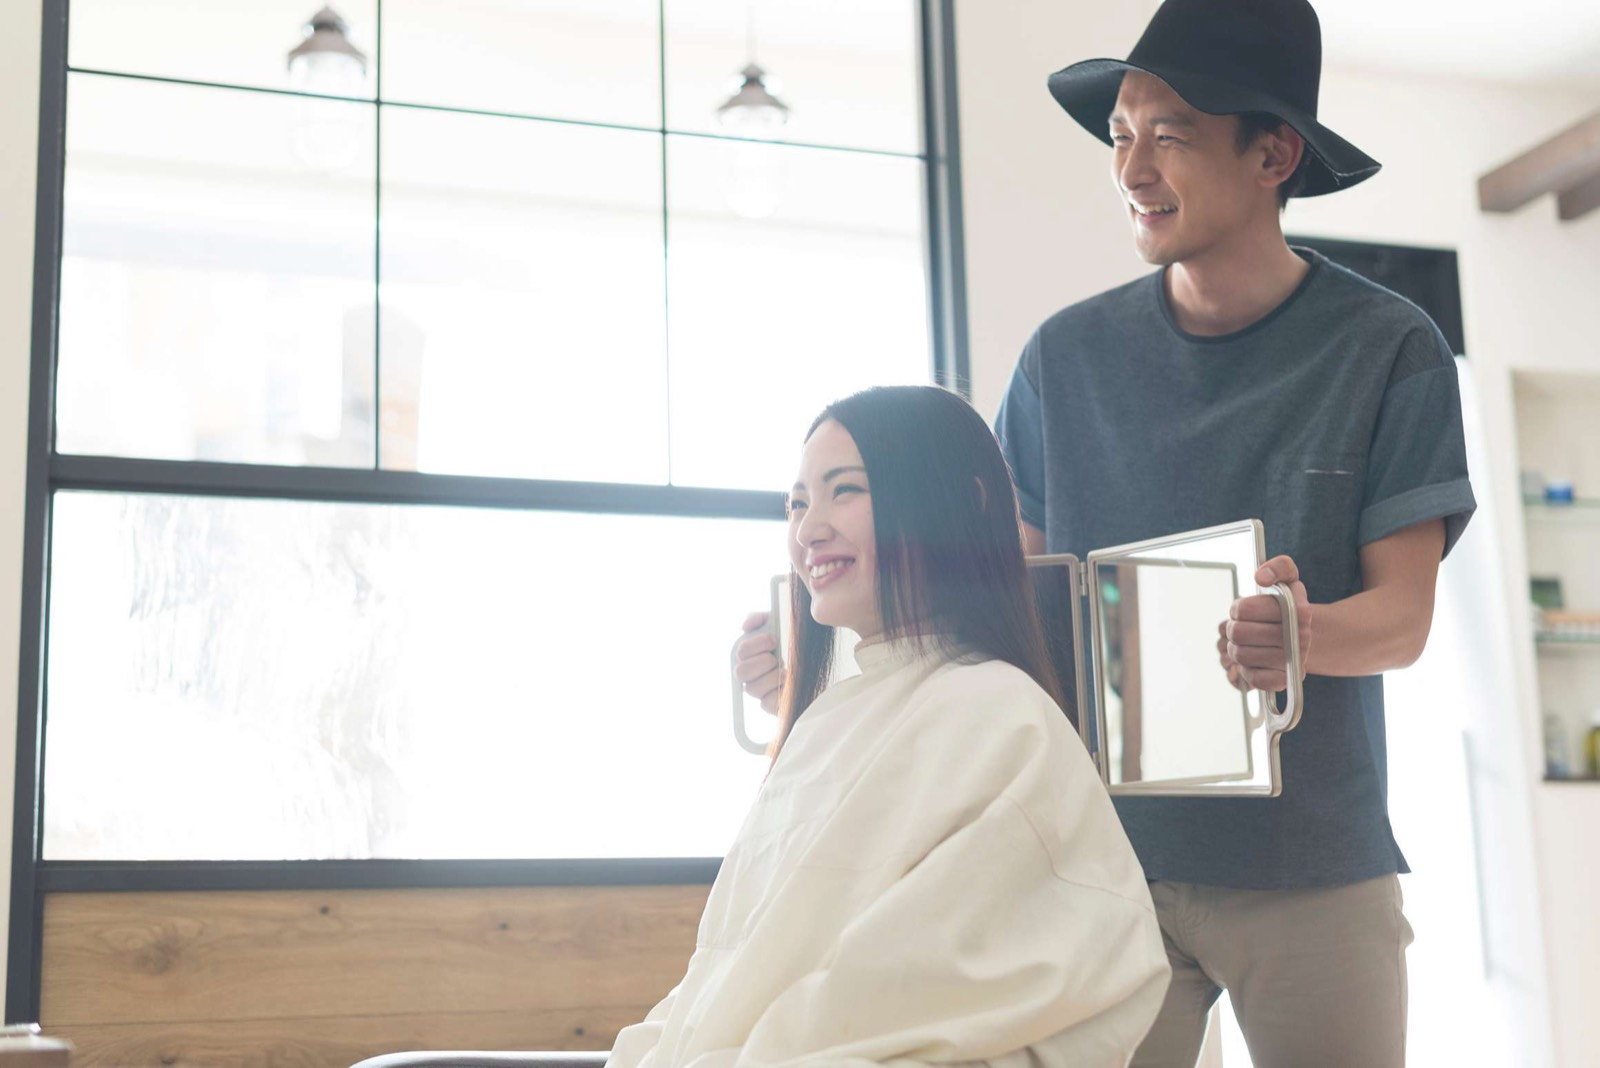
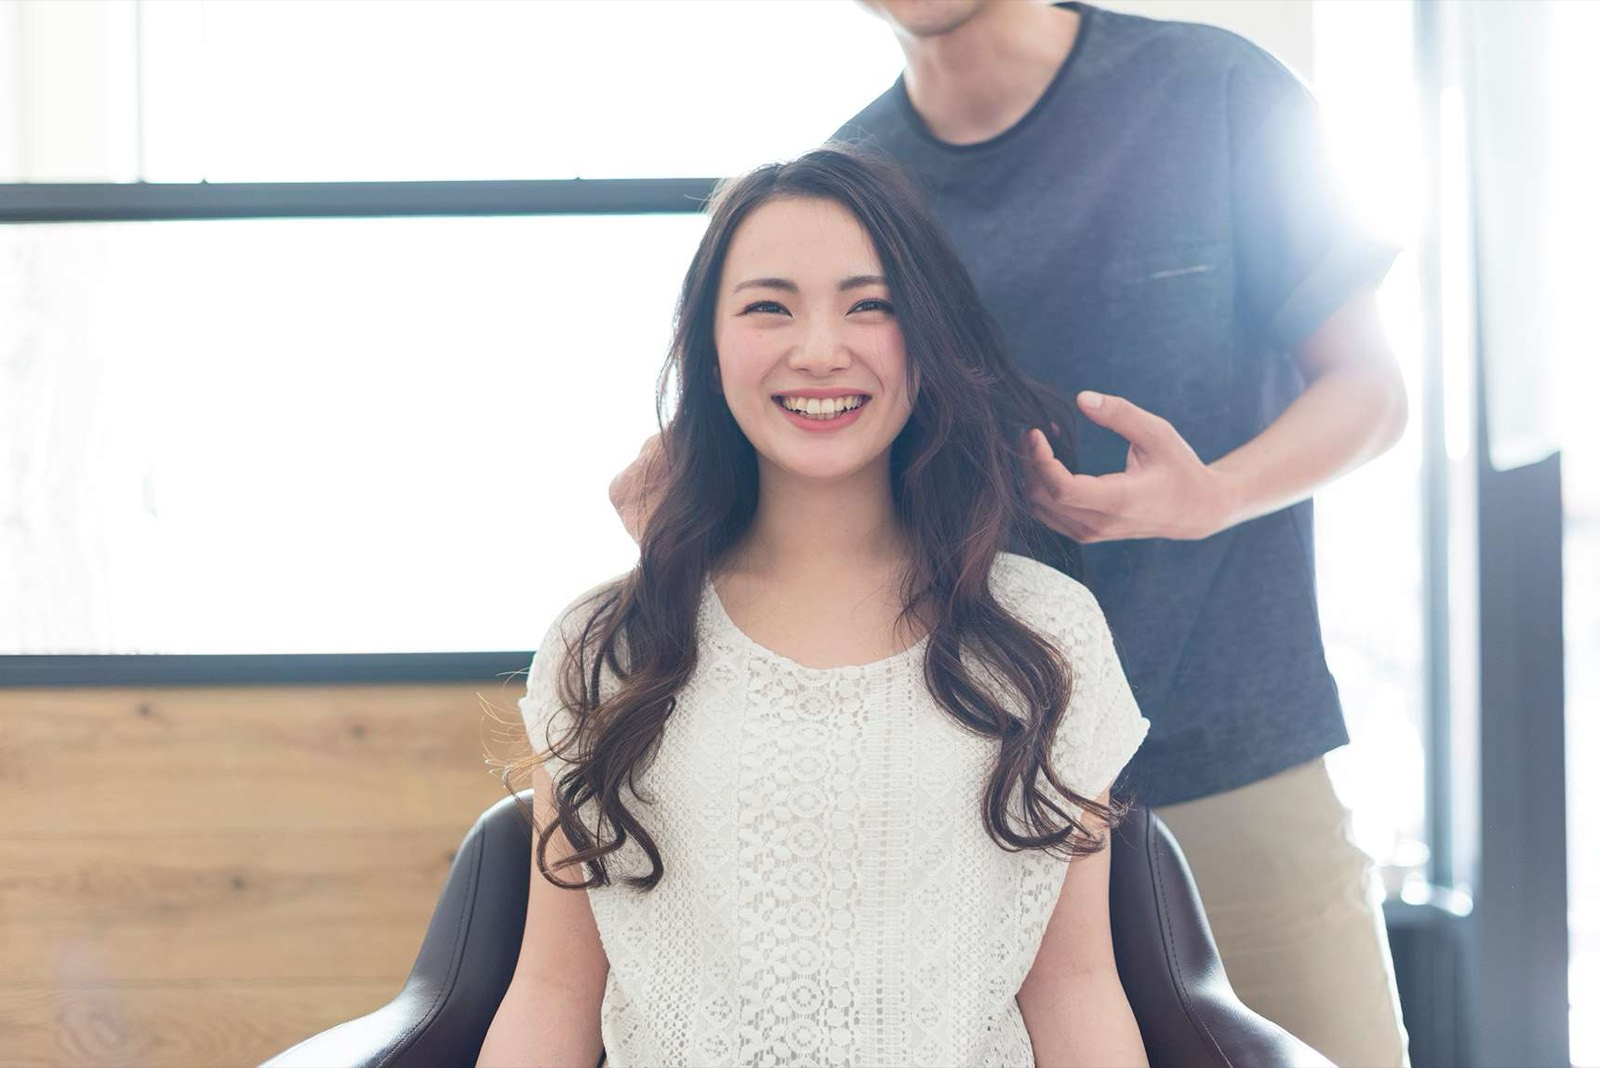
Hero: new radiant photo + glow-themed copy aligned to the Everglow name
- swap hero image (optimized 1600x1068) and update alt
- catch: family-themed line → "いつまでも、あなたらしく輝けるように。"
  (matches the photo and the Everglow name origin)
- concept lead reworded to avoid duplication; hero sub tightened to the
  salon + "あなたらしさ" theme
- regenerate OGP image from the new hero

diff --git a/index.html b/index.html
@@ -93,11 +93,11 @@
 
   <!-- HERO -->
   <section class="hero">
-    <div class="ph hero__img"><img src="images/hero.jpg" alt="鏡で仕上がりを確認するお客様とスタイリスト" width="1600" height="1068"></div>
+    <div class="ph hero__img"><img src="images/hero.jpg" alt="スタイリストに髪を整えてもらい、明るい光の中で微笑むお客様" width="1600" height="1068"></div>
     <div class="hero__box" data-rev>
-      <h1 class="hero__catch">親子で並んで、<br>夫婦で寄り添って、<br>ここで過ごすやさしい時間。</h1>
+      <h1 class="hero__catch">いつまでも、<br>あなたらしく輝けるように。</h1>
       <div class="hero__rule"></div>
-      <p class="hero__sub">湘南の住宅街にある小さなプライベートサロンです。<br>心地よい空間で、やすらぎとおしゃれを。</p>
+      <p class="hero__sub">湘南の住宅街にある、夫婦ふたりの小さなプライベートサロン。<br>あなたに似合う髪で、毎日をやさしく彩ります。</p>
     </div>
   </section>
 
@@ -105,7 +105,7 @@
   <section class="sec" id="concept">
     <div class="wrap">
       <h2 class="sec__title"><span class="en">Our Salon</span><span class="jp">サロンについて</span></h2>
-      <p class="concept__lead" data-rev>いつまでも、<br>あなたらしく輝けるように。</p>
+      <p class="concept__lead" data-rev>少人数制だからこそ、<br>あなただけの時間を。</p>
       <div class="osalon">
         <article class="osf" data-rev>
           <div class="ph osf__img"><img src="images/salon-1.jpg" alt="少人数制の落ち着いたサロン空間" width="1000" height="1502"></div>